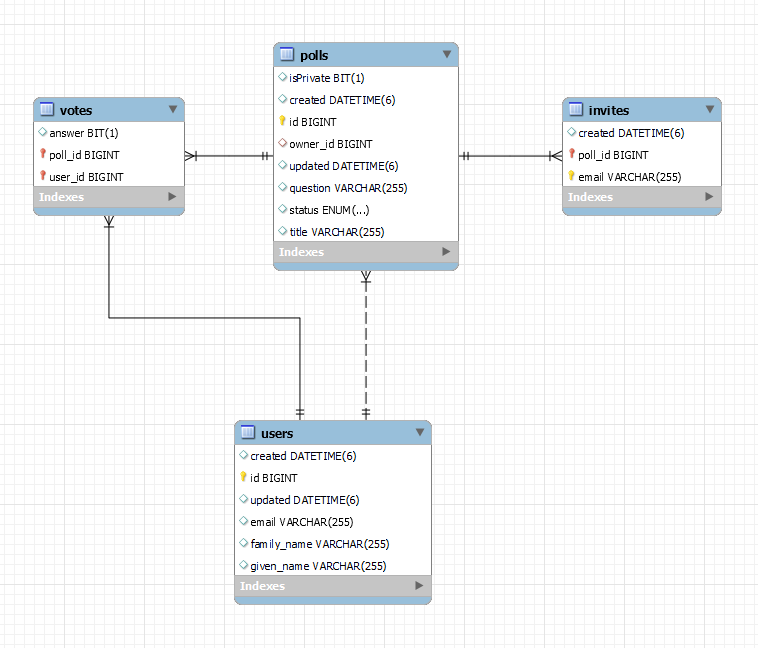
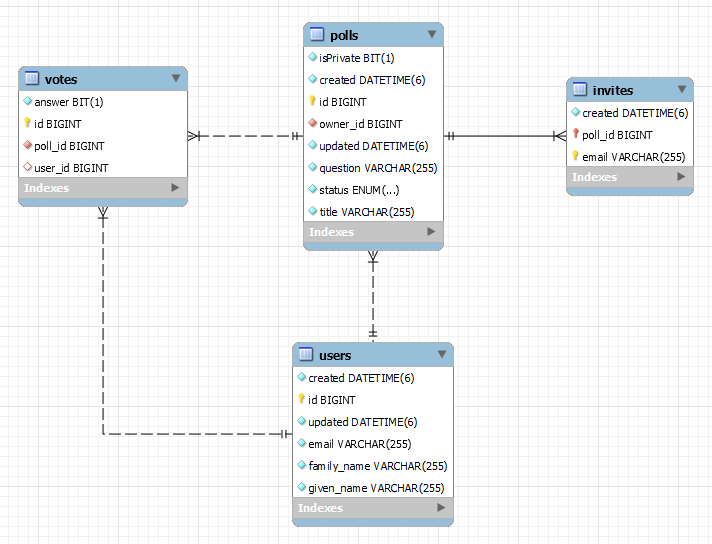
non nullable, optional user id for votes

diff --git a/src/main/java/no/hvl/dat250/feedapp/prototype/models/Poll.java b/src/main/java/no/hvl/dat250/feedapp/prototype/models/Poll.java
@@ -10,7 +10,7 @@ public class Poll {
     @GeneratedValue(strategy = GenerationType.IDENTITY)
     private Long id;
 
-    @ManyToOne
+    @ManyToOne(optional = false)
     private User owner;
 
     @OneToMany(mappedBy = "poll", cascade = CascadeType.REMOVE)
@@ -19,23 +19,23 @@ public class Poll {
     @OneToMany(mappedBy = "poll", cascade = CascadeType.REMOVE)
     private Set<Vote> votes;
 
-    @Column
+    @Column(nullable = false)
     private String title;
 
-    @Column
+    @Column(nullable = false)
     private String question;
 
-    @Column
+    @Column(nullable = false)
     private boolean isPrivate = false;
 
-    @Column
+    @Column(nullable = false)
     @Enumerated(EnumType.STRING)
     private Status status = Status.Before;
 
-    @Column(updatable = false)
+    @Column(updatable = false, nullable = false)
     private Date created;
 
-    @Column
+    @Column(nullable = false)
     private Date updated;
 
     @PrePersist

diff --git a/src/main/java/no/hvl/dat250/feedapp/prototype/models/User.java b/src/main/java/no/hvl/dat250/feedapp/prototype/models/User.java
@@ -14,19 +14,19 @@ public class User {
     @OneToMany(mappedBy = "owner", cascade = CascadeType.REMOVE)
     private Set<Poll> polls;
 
-    @Column(unique = true)
+    @Column(unique = true, nullable = false)
     private String email;
 
-    @Column
+    @Column(nullable = false)
     private String given_name;
 
-    @Column
+    @Column(nullable = false)
     private String family_name;
 
-    @Column(updatable = false)
+    @Column(updatable = false, nullable = false)
     private Date created;
 
-    @Column
+    @Column(nullable = false)
     private Date updated;
 
     @PrePersist

diff --git a/src/main/java/no/hvl/dat250/feedapp/prototype/models/Vote.java b/src/main/java/no/hvl/dat250/feedapp/prototype/models/Vote.java
@@ -5,15 +5,25 @@ import jakarta.persistence.*;
 @Entity(name = "votes")
 public class Vote {
     @Id
-    @ManyToOne
+    @GeneratedValue(strategy = GenerationType.IDENTITY)
+    private Long id;
+
+    @ManyToOne(optional = false)
     private Poll poll;
 
-    @Id
-    @ManyToOne
+    @ManyToOne(optional = true)
     private User user;
 
-    @Column
+    @Column(nullable = false)
     private boolean answer;
+
+    public Long getId() {
+        return id;
+    }
+
+    public void setId(Long id) {
+        this.id = id;
+    }
 
     public Poll getPoll() {
         return poll;

diff --git a/src/main/java/no/hvl/dat250/feedapp/prototype/models/Invite.java b/src/main/java/no/hvl/dat250/feedapp/prototype/models/Invite.java
@@ -14,7 +14,7 @@ public class Invite {
     @Id
     private String email;
 
-    @Column(updatable = false)
+    @Column(updatable = false, nullable = false)
     private Date created;
 
     @PrePersist
